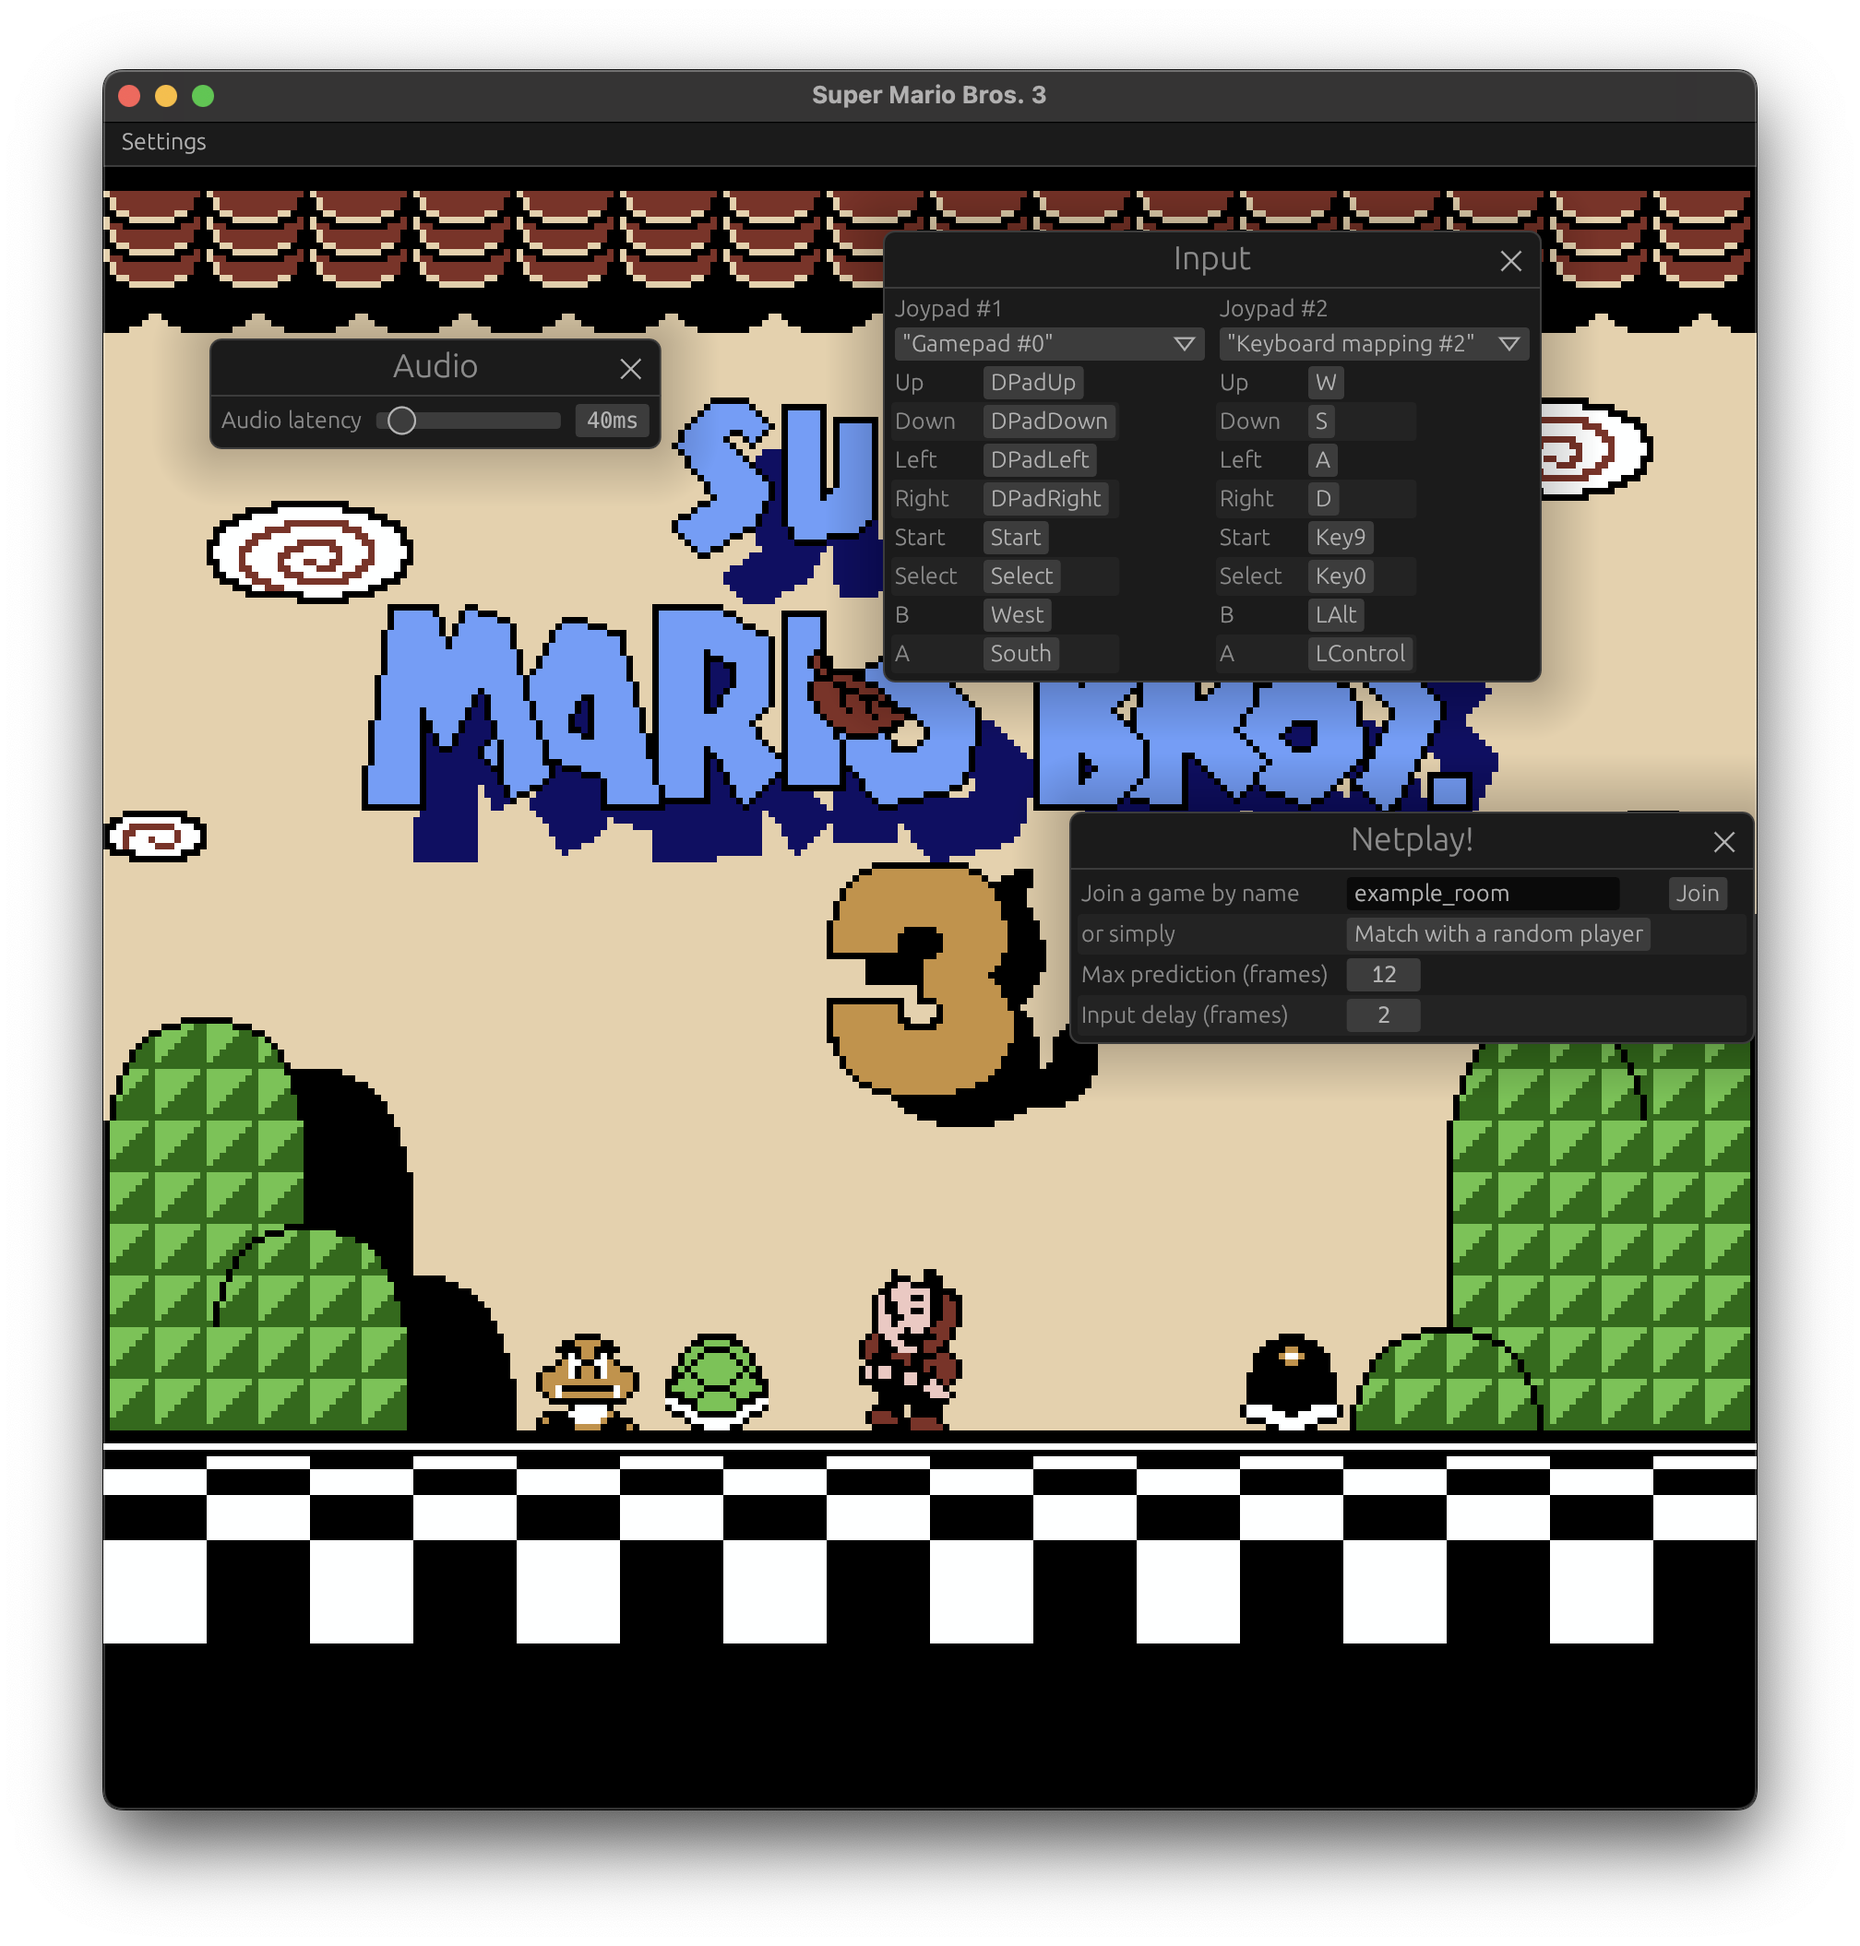
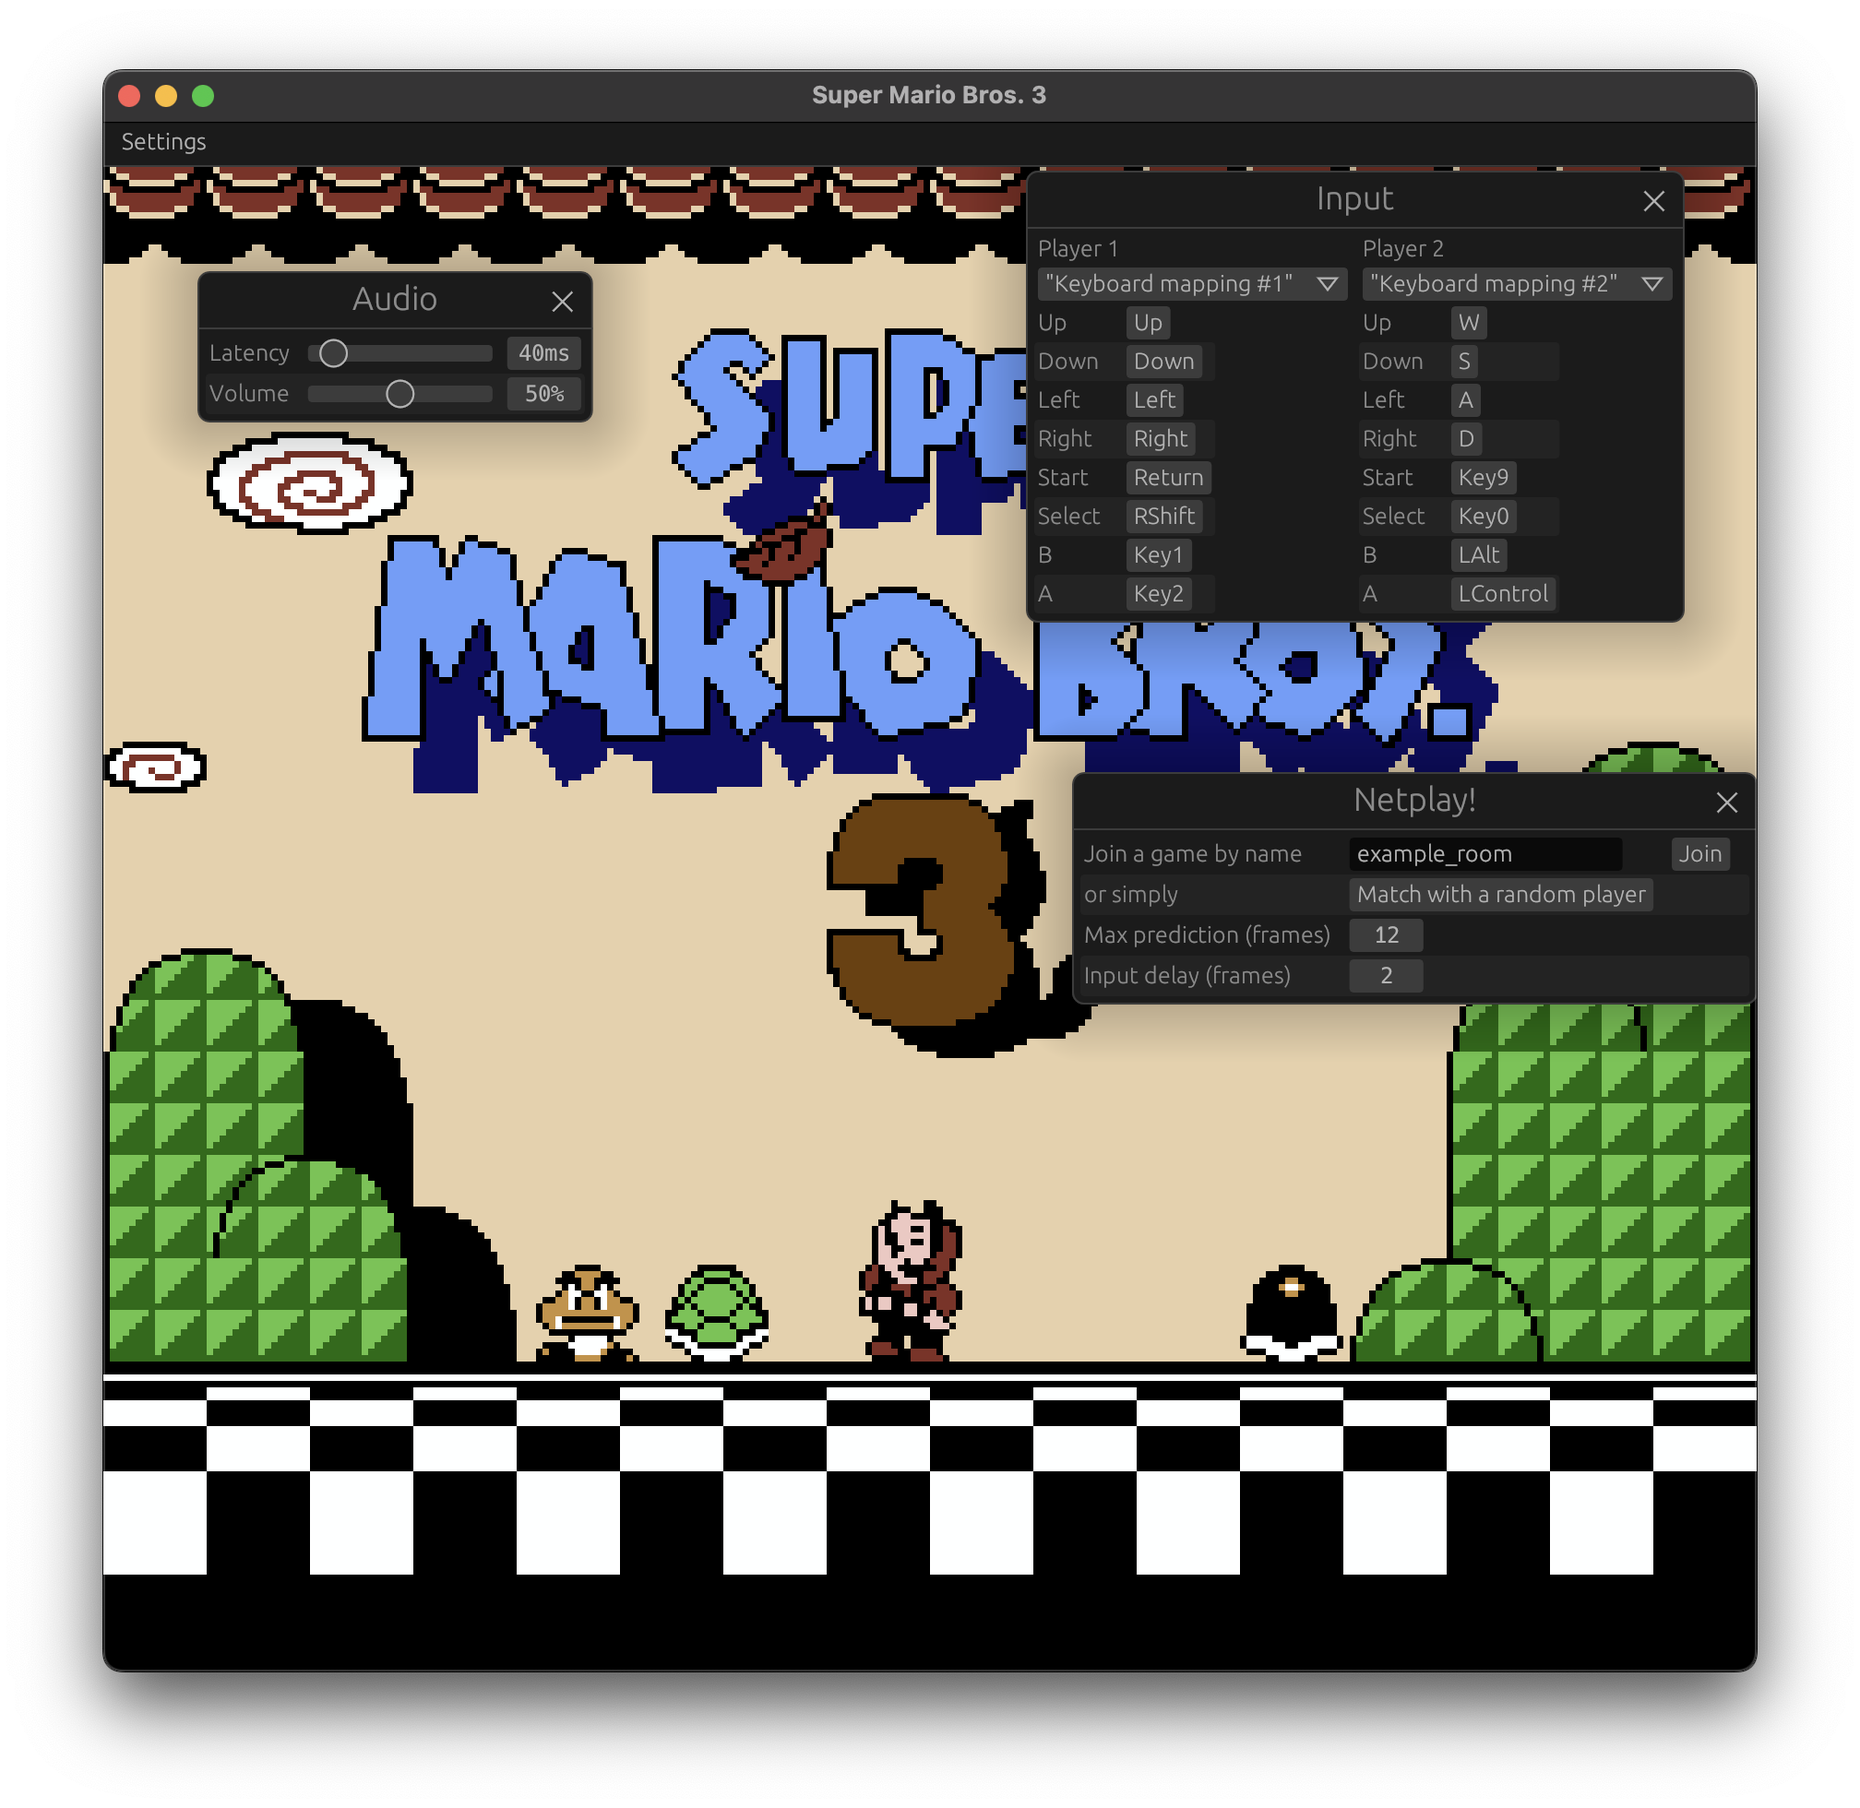
Player instead of Joypad

diff --git a/src/gui/input.rs b/src/gui/input.rs
@@ -34,7 +34,7 @@ impl InputSettingsGui {
         selected_configuration: &mut InputConfigurationRef,
         player: usize,
     ) {
-        ui.label(format!("Joypad #{}", player + 1));
+        ui.label(format!("Player {}", player + 1));
         egui::ComboBox::from_id_source(format!("joypad-{}", player))
             .width(160.0)
             .selected_text(format!("{:?}", selected_configuration.borrow().name))
